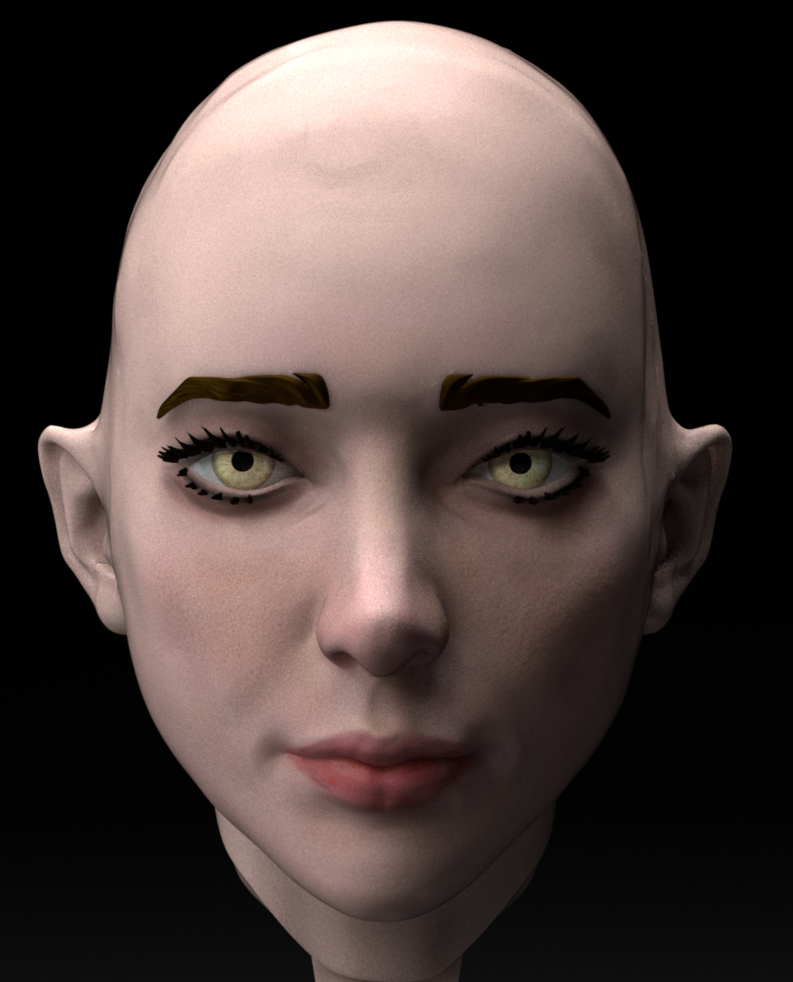
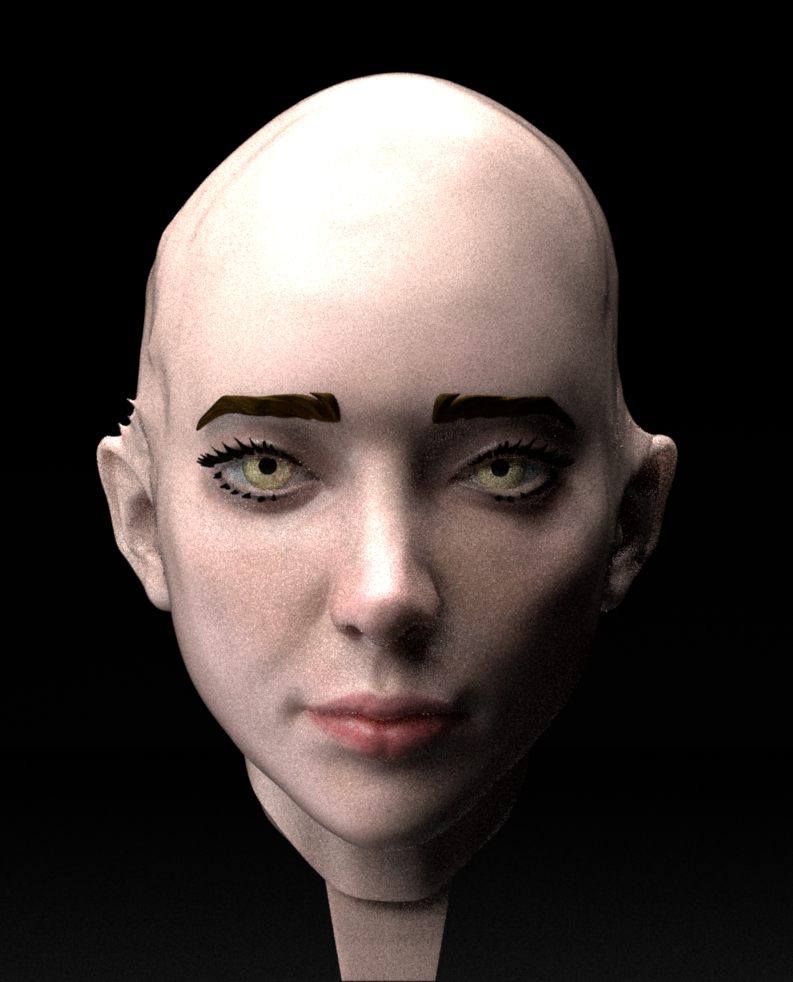
Fixed skin material, now works properly with the GPU gems 3 model

diff --git a/src/skin.cpp b/src/skin.cpp
@@ -40,59 +40,57 @@ public:
 
     void preprocess(Sampler *sampler) 
     {
-        if (m_bsdfs.size() != 3)
-            throw NoriException("Skin::preprocess(): A skin BSDF must have 3 components!");
+        if (m_bsdfs.size() != 2)
+            throw NoriException("Skin::preprocess(): A skin BSDF must have 2 components!");
 
         for (size_t i = 0; i < m_bsdfs.size(); i++)
             m_bsdfs[i]->preprocess(sampler);
 
         m_pdf.clear();
 
-        BSDF *spec1 = m_bsdfs[1];
-        BSDF *spec2 = m_bsdfs[2];
-        
-        Color3f c1 = Pth::integrateBSDF(spec1, sampler);
-        Color3f c2 = Pth::integrateBSDF(spec2, sampler);
-
+        Color3f c1 = Pth::integrateBSDF(m_bsdfs[0], sampler);
         w1 = c1.getLuminance();
-        w2 = c2.getLuminance();
+        ws = 1.0f - w1;
 
-        ws = 1.0f - w1 * (1.0f - w2);
-
-        m_pdf.append(ws);
         m_pdf.append(w1);
-        m_pdf.append(w2);
+        m_pdf.append(ws);
         m_pdf.normalize();
+
+
+        int nSamples = 128;
+        for (int i = 0; i < nSamples; i++)
+        {
+            float costheta = float(i) / float(nSamples - 1);
+
+            precomputed_specular_integral.push_back(Pth::integrateSkinSpecular(m_bsdfs[0], sampler, costheta, specWeight));
+        }
     }
 
-    /// Evaluate the BRDF model
-    Color3f evalIntegrated(const BSDFQueryRecord &bRec) const 
+    Color3f interpolateSpecularWeight(float cosTheta) const
     {
-        float w = 1.0f;
+        int index1 = Math::floor(cosTheta * (precomputed_specular_integral.size() - 1));
+        int index2 = Math::ceil(cosTheta * (precomputed_specular_integral.size() - 1));
 
-        if (bRec.agregate_id == 0)
-            w = ws; 
+        float cosTheta1 = float(index1) / float(precomputed_specular_integral.size() - 1);
+        float cosTheta2 = float(index2) / float(precomputed_specular_integral.size() - 1);
 
-        return m_bsdfs[bRec.agregate_id]->eval(bRec) * w;
+        return Math::lerp(precomputed_specular_integral[index1], precomputed_specular_integral[index2], cosTheta1, cosTheta2);
     }
 
     Color3f eval(const BSDFQueryRecord &bRec) const 
     {
-        if (bRec.agregate_id == 1) {
-            return m_bsdfs[bRec.agregate_id]->eval(bRec) * w1;
-        }
-        else if (bRec.agregate_id == 2) {
-            return m_bsdfs[bRec.agregate_id]->eval(bRec) * w2;
+        if (bRec.agregate_id == 0) {
+            return m_bsdfs[bRec.agregate_id]->eval(bRec) * specWeight;
         }
         else
-        {
-            Color3f _w1 = m_bsdfs[1]->eval(bRec);
-            Color3f _w2 = m_bsdfs[2]->eval(bRec);
+        { 
+            Color3f w_wi = interpolateSpecularWeight(bRec.wi.z());
+            Color3f w_wo = interpolateSpecularWeight(bRec.wo.z());
 
-            Color3f w = 1.0f - _w1 * (1.0f - _w2);
+            Color3f w = (1.0f - w_wi) * (1.0f - w_wo);
             w = Math::clamp(w, 0.0f, 1.0f);
 
-            return m_bsdfs[0]->eval(bRec) * w;
+            return m_bsdfs[bRec.agregate_id]->eval(bRec) * w;
         }
     }
 
@@ -108,7 +106,7 @@ public:
         int index = m_pdf.sample(sampler->next1D());
         bRec.agregate_id = index;
 
-        return m_bsdfs[bRec.agregate_id]->samplePoint(bRec, sampler);
+        return m_bsdfs[bRec.agregate_id]->samplePoint(bRec, sampler) / m_pdf[index];
     }
 
     /// Draw a a sample from the BRDF model
@@ -139,8 +137,8 @@ public:
         {
             BSDF *bsdf = static_cast<BSDF*>(obj);
 
-            if (bsdf->isSubsurfaceScattering() && m_bsdfs.size() > 0)
-                throw NoriException("Skin::addChild(): First skin BSDF must be subsurface scattering!");
+            if (bsdf->isSubsurfaceScattering() && m_bsdfs.size() != 1)
+                throw NoriException("Skin::addChild(): Second skin BSDF must be subsurface scattering!");
 
             m_bsdfs.push_back(bsdf);
 
@@ -158,8 +156,10 @@ public:
 private:
     //Texture *m_albedo;
     std::vector<BSDF*> m_bsdfs;
-    float w1, w2, ws;
-    
+    float w1, ws, specWeight = 0.0277778;
+
+    std::vector<Color3f> precomputed_specular_integral;
+
     DiscretePDF m_pdf;
 };
 

diff --git a/src/pathtracing.cpp b/src/pathtracing.cpp
@@ -62,7 +62,7 @@ bool checkVisibility (const Scene *scene,
 }
 
 
-BSDFQueryRecord Pth::initBSDFQuery(const Scene *scene, const PathState &state)
+BSDFQueryRecord Pth::initBSDFQuery(const Scene *scene, Sampler *sampler, const PathState &state)
 {
     BSDFQueryRecord bsdfQuery;
     bsdfQuery.wi = state.intersection.vtoLocal(-state.ray.d);
@@ -75,6 +75,7 @@ BSDFQueryRecord Pth::initBSDFQuery(const Scene *scene, const PathState &state)
     
     bsdfQuery.mesh = state.intersection.mesh;
     bsdfQuery.scene = scene;
+    bsdfQuery.sampler = sampler;
 
     return bsdfQuery;
 }
@@ -184,10 +185,11 @@ Pth::IntegrationType Pth::getIntegrationType(const Intersection &its)
 
 
 
+
 Color3f Pth::integrateBSDF(const BSDF *bsdf, Sampler *sampler)
 {
     Color3f result(0.0f, 0.0f, 0.0f);
-    int nSteps = 16384;
+    int nSteps = 2048;
 
     for (int i = 0; i < nSteps; i++)
     {
@@ -201,6 +203,42 @@ Color3f Pth::integrateBSDF(const BSDF *bsdf, Sampler *sampler)
     }
 
     return result / nSteps;
+}
+
+Color3f Pth::integrateSkinSpecular(const BSDF *bsdf, Sampler *sampler, float costheta, float specWeight)
+{
+    Color3f result(0.0f, 0.0f, 0.0f);
+
+    int nSteps = 80;
+
+    Vector3f V = Vector3f(0.0, sqrt(1.0 - costheta * costheta), costheta);
+
+    for (int i = 0; i < nSteps; i++)
+    {
+        float phip = float(i) / float(nSteps - 1) * 2.0 * M_PI;
+        Color3f localsum = 0.0f;
+        float cosp = cos(phip);
+        float sinp = sin(phip);
+
+        for (int j = 0; j < nSteps; j++)
+        {
+            float thetap = float(j) / float(nSteps - 1) * M_PI / 2.0;
+            float sint = sin(thetap);
+            float cost = cos(thetap);
+            Vector3f L = Vector3f(sinp * sint, cosp * sint, cost);
+
+
+            BSDFQueryRecord bsdfQuery;
+            bsdfQuery.wi = L;
+            bsdfQuery.wo = V;
+
+            localsum += bsdf->eval(bsdfQuery) * specWeight * sint;
+        }
+
+        result += localsum * (M_PI / 2.0) / float(nSteps);
+    }
+
+    return result * (2.0 * M_PI) / (float(nSteps));
 }
 
 

diff --git a/src/whitted.cpp b/src/whitted.cpp
@@ -39,7 +39,7 @@ public:
         // Sample the BSDF
         const BSDF *bsdf = state.intersection.mesh->getBSDF();
         
-        auto query = Pth::initBSDFQuery(scene, state);
+        auto query = Pth::initBSDFQuery(scene, sampler, state);
         Color3f fp = bsdf->samplePoint(query, sampler);
 
         if (fp == Color3f(0.0f))
@@ -66,7 +66,7 @@ public:
 
         const BSDF *bsdf = state.intersection.mesh->getBSDF();
         
-        auto query = Pth::initBSDFQuery(scene, state);
+        auto query = Pth::initBSDFQuery(scene, sampler, state);
         Color3f fp = bsdf->samplePoint(query, sampler);
 
         float lightPdf, bsdfPdf;
@@ -90,7 +90,7 @@ public:
 
             const BSDF *bsdf = state.intersection.mesh->getBSDF();
             
-            auto query = Pth::initBSDFQuery(scene, state);
+            auto query = Pth::initBSDFQuery(scene, sampler, state);
             Color3f fp = bsdf->samplePoint(query, sampler);
 
             radiance += fp * Pth::nextEventEstimation(scene, sampler, state, query);

diff --git a/include/nori/pathtracing.h b/include/nori/pathtracing.h
@@ -41,7 +41,7 @@ static Color3f nextEventEstimation(const Scene *scene,
     return nextEventEstimation(scene, sampler, state, bsdfQuery, lightPdf, bsdfPdf);
 }
 
-static BSDFQueryRecord initBSDFQuery(const Scene *scene, const PathState &state);
+static BSDFQueryRecord initBSDFQuery(const Scene *scene, Sampler *sampler, const PathState &state);
 
 static Color3f nextEventEstimation(const Scene *scene, 
                 Sampler *sampler,
@@ -57,7 +57,9 @@ static Color3f sampleBSDF(
 
 static IntegrationType getIntegrationType(const Intersection &its); 
 
+
 static Color3f integrateBSDF(const BSDF *bsdf, Sampler *sampler);
+static Color3f integrateSkinSpecular(const BSDF *bsdf, Sampler *sampler, float cosTh, float specWeight);
 
 };
 

diff --git a/src/indirectWhitted.cpp b/src/indirectWhitted.cpp
@@ -25,7 +25,7 @@ public:
         // Sample the contribution of a random emitter
         const BSDF *bsdf = state.intersection.mesh->getBSDF();
 
-        BSDFQueryRecord query = Pth::initBSDFQuery(scene, state);
+        BSDFQueryRecord query = Pth::initBSDFQuery(scene, sampler, state);
         Color3f fp = bsdf->samplePoint(query, sampler);
         state.scatteringFactor *= fp;
 
@@ -50,7 +50,7 @@ public:
         // Sample the specular BSDF
         const BSDF *bsdf = state.intersection.mesh->getBSDF();
         
-        auto query = Pth::initBSDFQuery(scene, state);
+        auto query = Pth::initBSDFQuery(scene, sampler, state);
         Color3f fp = bsdf->samplePoint(query, sampler);
 
         float bsdfPdf;

diff --git a/src/path_ems.cpp b/src/path_ems.cpp
@@ -25,7 +25,7 @@ public:
         // Sample the contribution of a random emitter
         const BSDF *bsdf = state.intersection.mesh->getBSDF();
 
-        BSDFQueryRecord query = Pth::initBSDFQuery(scene, state);
+        BSDFQueryRecord query = Pth::initBSDFQuery(scene, sampler, state);
         Color3f fp = bsdf->samplePoint(query, sampler);
         state.scatteringFactor *= fp;
 
@@ -47,7 +47,7 @@ public:
         // Sample the specular BSDF
         const BSDF *bsdf = state.intersection.mesh->getBSDF();
         
-        auto query = Pth::initBSDFQuery(scene, state);
+        auto query = Pth::initBSDFQuery(scene, sampler, state);
         Color3f fp = bsdf->samplePoint(query, sampler);
 
         float bsdfPdf;

diff --git a/src/path_mis.cpp b/src/path_mis.cpp
@@ -31,7 +31,7 @@ public:
         /*************** Sample outgoing point *******************/
         const BSDF *bsdf = state.intersection.mesh->getBSDF();
         
-        auto query = Pth::initBSDFQuery(scene, state);
+        auto query = Pth::initBSDFQuery(scene, sampler, state);
         Color3f fp = bsdf->samplePoint(query, sampler);
         state.scatteringFactor *= fp;
 
@@ -67,7 +67,7 @@ public:
         // Sample the specular BSDF
         const BSDF *bsdf = state.intersection.mesh->getBSDF();
         
-        auto query = Pth::initBSDFQuery(scene, state);
+        auto query = Pth::initBSDFQuery(scene, sampler, state);
         Color3f fp = bsdf->samplePoint(query, sampler);
 
         float bsdfPdf;

diff --git a/src/path_mats.cpp b/src/path_mats.cpp
@@ -24,7 +24,7 @@ public:
     {   
         const BSDF *bsdf = state.intersection.mesh->getBSDF();
 
-        auto query = Pth::initBSDFQuery(scene, state);
+        auto query = Pth::initBSDFQuery(scene, sampler, state);
         Color3f fp = bsdf->samplePoint(query, sampler);
 
         float bsdfPdf;
@@ -39,7 +39,7 @@ public:
         // Sample the specular BSDF
         const BSDF *bsdf = state.intersection.mesh->getBSDF();
         
-        auto query = Pth::initBSDFQuery(scene, state);
+        auto query = Pth::initBSDFQuery(scene, sampler, state);
         Color3f fp = bsdf->samplePoint(query, sampler);
 
         float bsdfPdf;

diff --git a/include/nori/math.h b/include/nori/math.h
@@ -94,6 +94,7 @@ class Math
     inline static Color3f min (const Color3f &a, float b) { return Color3f(std::min(a.x(), b), std::min(a.y(), b), std::min(a.z(), b)); }
 
     inline static float lerp(float a, float b, float t) { return a + (b - a) * t; }
+    inline static Color3f lerp(const Color3f &a, const Color3f &b, float t1, float t2) { return a * t1 + b * t2; } 
 
 
     // Compute sin of a vector in local coordinates

diff --git a/src/directWhitted.cpp b/src/directWhitted.cpp
@@ -26,7 +26,7 @@ public:
 
         const BSDF *bsdf = state.intersection.mesh->getBSDF();
         
-        auto query = Pth::initBSDFQuery(scene, state);
+        auto query = Pth::initBSDFQuery(scene, sampler, state);
         Color3f fp = bsdf->samplePoint(query, sampler);
 
         float lightPdf, bsdfPdf;

diff --git a/src/agregate.cpp b/src/agregate.cpp
@@ -104,7 +104,7 @@ public:
         int index = m_pdf.sample(sampler->next1D());
         bRec.agregate_id = index;
 
-        return m_bsdfs[index]->samplePoint(bRec, sampler);
+        return m_bsdfs[index]->samplePoint(bRec, sampler);  // / m_pdf[index]
     }
 
     /// Draw a a sample from the BRDF model

diff --git a/include/nori/bsdf.h b/include/nori/bsdf.h
@@ -54,6 +54,7 @@ struct BSDFQueryRecord {
     Frame fro, fri; // Shading frames
     const Mesh *mesh = nullptr; 
     const Scene *scene = nullptr;
+    Sampler *sampler = nullptr;
     bool isCameraRay = false;
 
     int agregate_id = -1;
